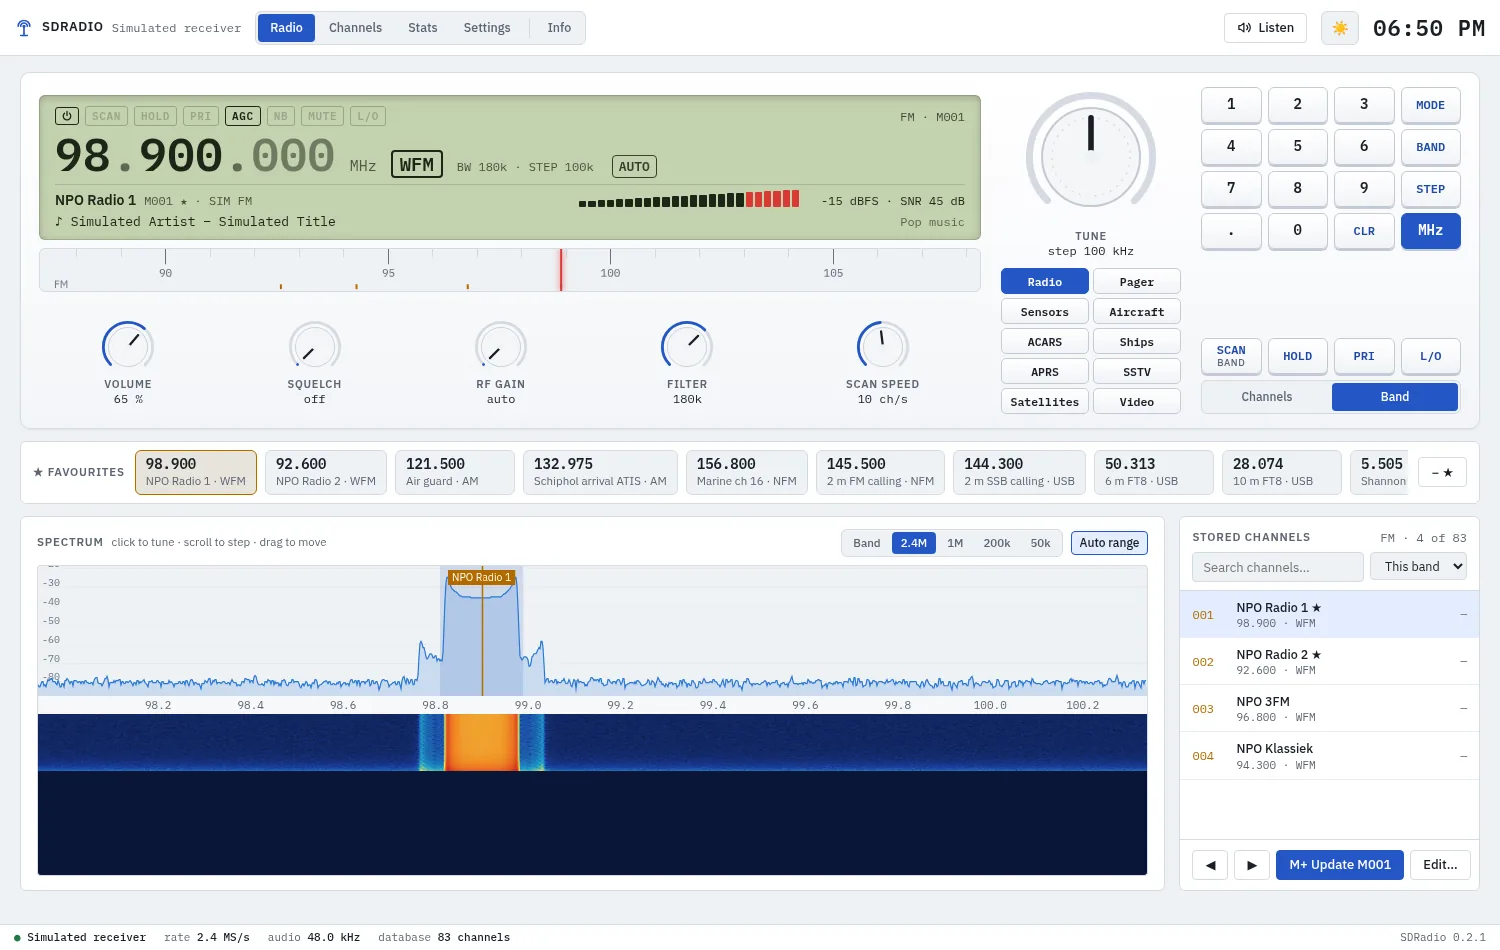
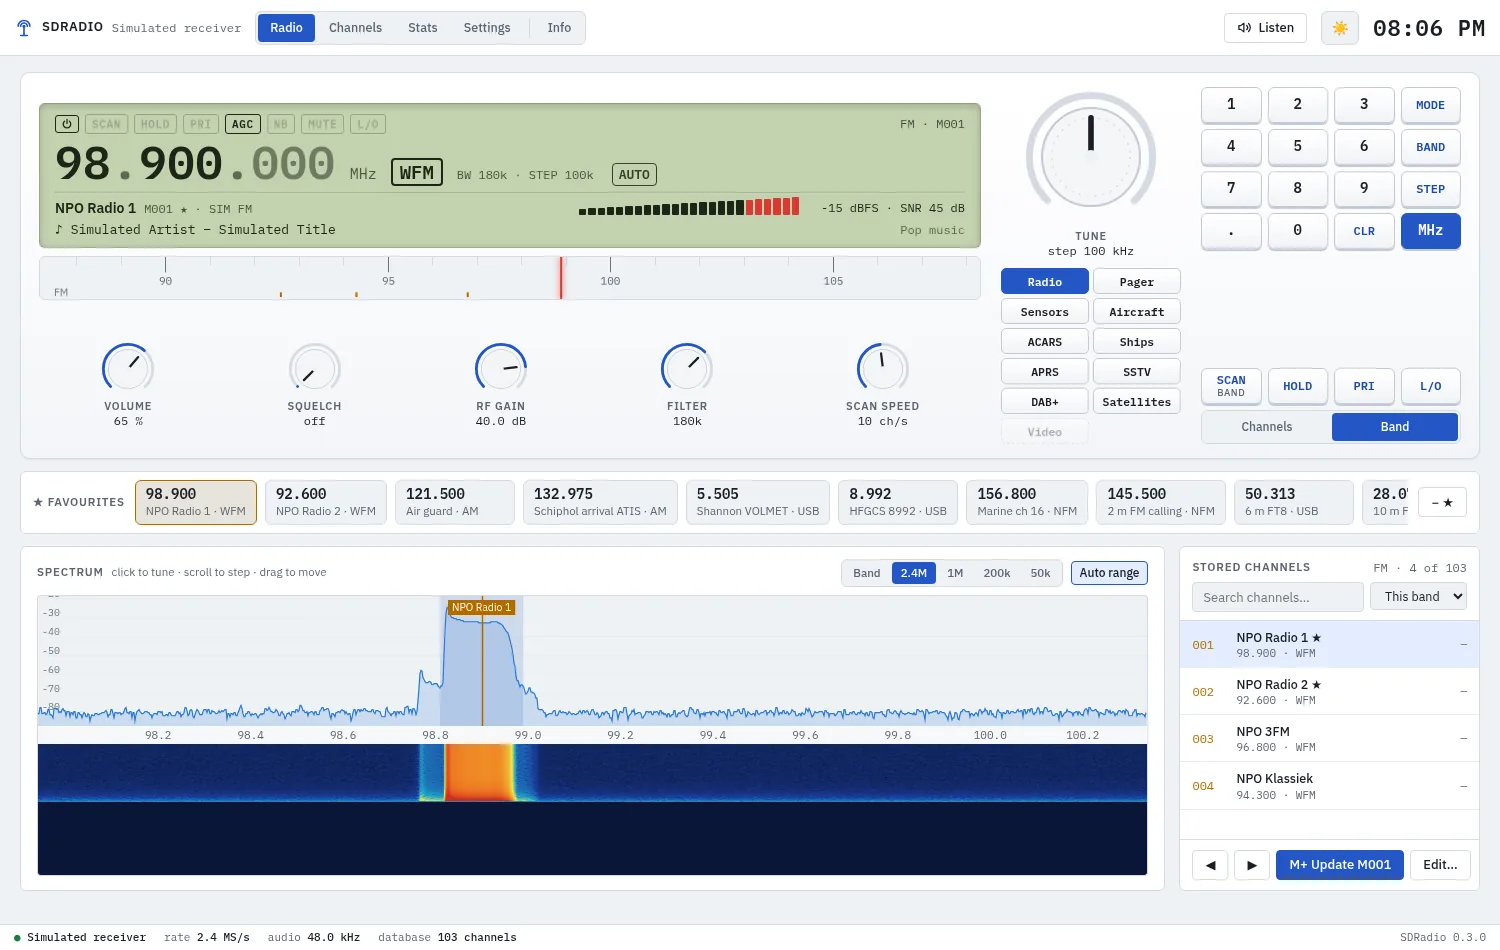
SDRadio 0.4.0: DAB+ mode (welle-cli), channels with a mode, the channel list in every mode; the sensor HA tick fixed

diff --git a/app-sdradio/src/web/radio.js b/app-sdradio/src/web/radio.js
@@ -505,7 +505,8 @@ function renderChannelList(force) {
     if (!force && key === radio.listKey) return;
     radio.listKey = key;
     let rows = app.channels;
-    if (filter === 'band') rows = rows.filter(c => c.band === s.band);
+    // This band; outside every band (a DAB block, 1090 MHz) all of them
+    if (filter === 'band' && s.band) rows = rows.filter(c => c.band === s.band);
     else if (filter === 'fav') rows = rows.filter(c => c.favourite);
     if (search) {
         rows = rows.filter(c => (c.name || '').toLowerCase().includes(search) || fmtMHz(c.frequency).includes(search)
@@ -516,7 +517,7 @@ function renderChannelList(force) {
     el.innerHTML = rows.length ? rows.map(c => `
         <button type="button" class="ch-item${c.id === current ? ' on' : ''}${c.scan ? '' : ' locked'}" data-id="${c.id}">
             <span class="num">${chNum(c.number)}</span>
-            <span class="body"><b>${escapeHtml(c.name || 'Unnamed')}${c.favourite ? ' ★' : ''}</b><small>${fmtMHz(c.frequency)} · ${modeLabel(c.mode)}</small></span>
+            <span class="body"><b>${escapeHtml(c.name || 'Unnamed')}${c.favourite ? ' ★' : ''}</b><small>${fmtMHz(c.frequency)} · ${modeLabel(c.mode)}${channelMode(c) ? ` · <span class="ch-mode">${escapeHtml(modeName(channelMode(c)))}</span>` : ''}</small></span>
             <span class="seen" title="last heard">${c.last_heard ? fmtAgo(c.last_heard) : '—'}</span>
         </button>`).join('')
         : `<div class="empty-state">${app.channels.length ? 'No channel matches' : 'No channels stored yet. Tune to something and press Store current, or import a CSV on the Channels page.'}</div>`;
@@ -546,7 +547,8 @@ function openStore(preset) {
             <div class="form-field"><label for="st-number">Number</label><input id="st-number" class="input mono" type="number" min="0" max="99999" value="${c.number ?? ''}"></div>
             <div class="form-field"><label for="st-band">Band</label><select id="st-band" class="input">${bandOptions(c.band)}</select></div>
             <div class="form-field full"><label for="st-name">Name</label><input id="st-name" class="input" maxlength="80" value="${escapeHtml(c.name)}" placeholder="What is on this frequency"></div>
-            <div class="form-field full"><label for="st-tags">Tags</label><input id="st-tags" class="input" value="${escapeHtml(c.tags)}" placeholder="amateur, repeater"></div>
+            <div class="form-field full"><label for="st-mode">Mode</label><select id="st-mode" class="input" title="Picking this channel switches the radio to this mode">${modeOptions(existing ? channelMode(c) : (s.decoder && s.decoder.key))}</select></div>
+            <div class="form-field full"><label for="st-tags">Tags</label><input id="st-tags" class="input" value="${escapeHtml(tagsWithMode(c.tags, null))}" placeholder="amateur, repeater"></div>
         </div>
         <div class="checks">
             <label><input type="checkbox" id="st-fav"${c.favourite ? ' checked' : ''}> Favourite</label>
@@ -559,7 +561,7 @@ function openStore(preset) {
                 number: document.getElementById('st-number').value,
                 name: document.getElementById('st-name').value,
                 band: document.getElementById('st-band').value,
-                tags: document.getElementById('st-tags').value,
+                tags: tagsWithMode(document.getElementById('st-tags').value, document.getElementById('st-mode').value),
                 favourite: document.getElementById('st-fav').checked,
                 scan: document.getElementById('st-scan').checked,
                 frequency: s.frequency, mode: s.mode, bandwidth: s.bandwidth, step: s.step, squelch: s.squelch,

diff --git a/app-sdradio/src/web/app.css b/app-sdradio/src/web/app.css
@@ -503,7 +503,11 @@ button.ind.on:hover { opacity: 1; }
 .freq-axis span.tuned { color: var(--accent-color); font-weight: 600; }
 
 /* A mode replaces the favourites and the stored channels with its own view */
-#tab-radio:not([data-mode="radio"]) .favbar, #tab-radio:not([data-mode="radio"]) .chlist { display: none; }
+/* In a mode the favourites and the stored channels stay: a channel (with its mode) is a click away.
+   The spectrum gives up some of its width to the mode's panel */
+#tab-radio:not([data-mode="radio"]) .spectrum-panel { flex: 1 1 380px; }
+#tab-radio:not([data-mode="radio"]) .chlist { flex: 0 1 280px; }
+.ch-mode { color: var(--primary-color); font-weight: 600; }
 #tab-radio[data-mode="radio"] .mode-panel { display: none; }
 .mode-panel { flex: 1.4 1 520px; min-width: 0; display: flex; flex-direction: column; overflow: hidden; min-height: 260px; }
 .mode-head { display: flex; flex-wrap: wrap; align-items: center; gap: 8px; padding: 12px 12px 8px; border-bottom: 1px solid var(--divider-color); }
@@ -528,11 +532,13 @@ table.sensors td:last-child, table.sensors th:last-child { text-align: center; }
 
 /* The map of the modes with positions (aircraft): the map above, the list below */
 /* A mode with a map takes more of the width than the spectrum */
-#tab-radio:is([data-mode="aircraft"], [data-mode="ships"], [data-mode="aprs"], [data-mode="satellites"]) .spectrum-panel { flex: 1 1 420px; }
-#tab-radio:is([data-mode="aircraft"], [data-mode="ships"], [data-mode="aprs"], [data-mode="satellites"]) .mode-panel { flex: 1.7 1 620px; }
-.dab-view { padding: 0 0 8px; }
+#tab-radio:is([data-mode="aircraft"], [data-mode="ships"], [data-mode="aprs"], [data-mode="satellites"]) .spectrum-panel { flex: 1 1 340px; }
+#tab-radio:is([data-mode="aircraft"], [data-mode="ships"], [data-mode="aprs"], [data-mode="satellites"]) .mode-panel { flex: 1.8 1 560px; }
+/* The player stays at the top; the station list scrolls under it */
+.dab-view { display: flex; flex-direction: column; height: 100%; }
+#dab-list { flex: 1 1 0; min-height: 0; overflow: auto; padding-bottom: 8px; }
 .dab-head { padding: 10px 12px 6px; }
-.dab-now { display: flex; align-items: center; gap: 12px; padding: 10px 12px; border-bottom: 1px solid var(--divider-color); background: var(--hover-bg); }
+.dab-now { flex: 0 0 auto; display: flex; align-items: center; gap: 12px; padding: 10px 12px; border-bottom: 1px solid var(--divider-color); background: var(--hover-bg); }
 .dab-now img { width: 96px; height: 72px; object-fit: cover; border-radius: 4px; border: 1px solid var(--divider-color); }
 .dab-now-text { flex: 1; min-width: 0; display: flex; flex-direction: column; gap: 4px; font-size: 13px; }
 .dab-now audio { width: 100%; max-width: 420px; height: 32px; }

diff --git a/app-sdradio/src/web/channels.js b/app-sdradio/src/web/channels.js
@@ -124,7 +124,8 @@ function renderEditor() {
             <div class="form-field"><label for="ed-sq">Squelch (dB)</label><input id="ed-sq" class="input mono" value="${c.squelch ?? ''}" placeholder="off"></div>
             <div class="form-field"><label for="ed-gain">RF gain (dB)</label><input id="ed-gain" class="input mono" value="${c.gain ?? ''}" placeholder="as it is"></div>
             <div class="form-field"><label for="ed-band">Band</label><select id="ed-band" class="input">${bandOptions(c.band)}</select></div>
-            <div class="form-field full"><label for="ed-tags">Tags</label><input id="ed-tags" class="input" value="${escapeHtml(c.tags || '')}"></div>
+            <div class="form-field full"><label for="ed-decoder">Mode</label><select id="ed-decoder" class="input" title="Picking this channel switches the radio to this mode">${modeOptions(channelMode(c))}</select></div>
+            <div class="form-field full"><label for="ed-tags">Tags</label><input id="ed-tags" class="input" value="${escapeHtml(tagsWithMode(c.tags, null))}"></div>
             <div class="form-field full"><label for="ed-notes">Notes</label><textarea id="ed-notes" class="input">${escapeHtml(c.notes || '')}</textarea></div>
         </div>
         <div class="checks">
@@ -157,7 +158,7 @@ function readEditor() {
         mode: v('ed-mode'), bandwidth: v('ed-bw') ? Number(v('ed-bw')) : null, step: v('ed-step') || null,
         squelch: v('ed-sq').trim() === '' || v('ed-sq').trim() === 'off' ? null : v('ed-sq').replace(',', '.'),
         gain: v('ed-gain').trim() === '' ? null : v('ed-gain').replace(',', '.'),
-        band: v('ed-band'), tags: v('ed-tags'), notes: v('ed-notes'),
+        band: v('ed-band'), tags: tagsWithMode(v('ed-tags'), v('ed-decoder')), notes: v('ed-notes'),
         favourite: document.getElementById('ed-fav').checked, scan: document.getElementById('ed-scan').checked,
         priority: document.getElementById('ed-pri').checked,
     };

diff --git a/app-sdradio/src/web/core.js b/app-sdradio/src/web/core.js
@@ -90,6 +90,25 @@ function fmtBytes(bytes) {
 const modeLabel = m => (app.modes[m] && app.modes[m].label) || String(m || '').toUpperCase();
 const chNum = n => String(n).padStart(3, '0');
 
+// A stored channel's mode (Pager, DAB+ …) is its tag mode:<mode>; picking the channel switches to it
+function channelMode(c) {
+    const tag = String((c && c.tags) || '').split(',').map(t => t.trim().toLowerCase()).find(t => t.startsWith('mode:'));
+    return tag ? tag.slice(5) : null;
+}
+function tagsWithMode(tags, mode) {
+    const kept = String(tags || '').split(',').map(t => t.trim()).filter(t => t && !t.toLowerCase().startsWith('mode:'));
+    if (mode && mode !== 'radio') kept.push(`mode:${mode}`);
+    return kept.join(', ');
+}
+function modeName(key) {
+    const m = ((app.state && app.state.modes) || []).find(x => x.key === key);
+    return m ? m.name : key;
+}
+function modeOptions(selected) {
+    const modes = [{key: 'radio', name: 'Radio (no mode)'}, ...((app.state && app.state.modes) || [])];
+    return modes.map(m => `<option value="${m.key}"${(selected || 'radio') === m.key ? ' selected' : ''}>${escapeHtml(m.name)}${m.why_not ? ` (${escapeHtml(m.why_not)})` : ''}</option>`).join('');
+}
+
 // Safe in text and in attributes (quotes too: a value may go in an attribute or an inline handler)
 function escapeHtml(text) {
     return (text === null || text === undefined ? '' : String(text))

diff --git a/app-sdradio/src/radio.py b/app-sdradio/src/radio.py
@@ -62,6 +62,15 @@ class Signal:
     channel: dict | None = None
 
 
+def channel_mode(channel: dict) -> str | None:
+    """The mode a stored channel belongs to: its tag mode:<mode> (mode:dab, mode:pager …), if any."""
+    for tag in str(channel.get("tags") or "").split(","):
+        tag = tag.strip().lower()
+        if tag.startswith("mode:") and tag[5:] in registry():
+            return tag[5:]
+    return None
+
+
 @dataclass
 class ScanState:
     kind: str = ""  # channels or band
@@ -290,30 +299,42 @@ class Radio:
         if self.scan.kind == "channels":
             self._rebuild_scan_targets()
         # The mode's settings changed: start its decoder again with them
-        if self.decoder and self.settings.get(f"mode_{self.decoder_key}") != self.decoder.settings:
-            old = self.decoder.frequency
+        if self.decoder and self.settings.get(f"mode_{self.decoder_key}") != self.decoder.saved_settings:
+            old, channel = self.decoder.frequency, self.decoder.channel_frequency
             self.decoder.stop()
             self.decoder = None
-            self._start_decoder(self.decoder_key, tune=self.settings[f"mode_{self.decoder_key}"]["frequency"] != old)
+            new = channel or self.settings[f"mode_{self.decoder_key}"]["frequency"]
+            self._start_decoder(self.decoder_key, tune=new != old, frequency=channel)
 
-    def _cmd_decoder(self, key) -> None:
-        """Switch mode: the radio, or a decoder mode that tunes to its own frequency."""
+    def _cmd_decoder(self, key, frequency=None) -> None:
+        """Switch mode: the radio, or a decoder mode that tunes to its own frequency (or to the
+        frequency of the stored channel it was picked with)."""
         if key != "radio" and key not in registry():
             raise ValueError(f"Unknown mode {key}")
         if self.decoder:
             self.decoder.stop()
             self.decoder = None
-        # Back to the usual rate after a mode that needed another
-        if self.device and self.rate != float(self.config.receiver.sample_rate):
+        # The rate the next mode needs: back to the usual after a mode that needed another
+        wanted = (registry()[key].sample_rate if key != "radio" else None) or float(self.config.receiver.sample_rate)
+        if self.device and self.rate != wanted and (key == "radio" or not registry()[key].sample_rate):
             self._set_rate(float(self.config.receiver.sample_rate))
         self.decoder_key = key
         if key != "radio":
             self._stop_scan()
             self.priority = False
-            self._start_decoder(key, tune=True)
+            self._start_decoder(key, tune=True, frequency=frequency)
         self._save_soon()
 
-    def _start_decoder(self, key: str, tune: bool) -> None:
+    def _go_channel(self, channel: dict) -> None:
+        """A stored channel picked (the list, ◀ ▶, a favourite): its mode too. A channel tagged
+        mode:<mode> switches to that mode on its frequency; any other switches back to the radio."""
+        wanted = channel_mode(channel) or "radio"
+        if wanted != self.decoder_key or (self.decoder is not None and self.decoder.frequency != channel["frequency"]):
+            self._cmd_decoder(wanted, frequency=channel["frequency"] if wanted != "radio" else None)
+        self._stop_scan()
+        self._tune_channel(channel)
+
+    def _start_decoder(self, key: str, tune: bool, frequency: int | None = None) -> None:
         cls = registry()[key]
         if not cls.usable(self.config.receiver.type, self.device.frequency_range if self.device else None):
             self.emit("notice", {"message": f"The {self.config.receiver.name} can't receive {cls.name}"})
@@ -323,12 +344,19 @@ class Radio:
         if cls.sample_rate and self.device and self.rate != cls.sample_rate and not self._set_rate(cls.sample_rate):
             self.decoder_key = "radio"
             return
+        saved = self.settings.get(f"mode_{key}") or {}
+        settings = dict(saved)
+        if frequency:
+            settings["frequency"] = int(frequency)  # the stored channel's, for now
         decoder = cls(
-            self.settings.get(f"mode_{key}") or {},
+            settings,
             lambda item: self._publish(key, item),
             lambda data: self.emit("live", {"mode": key, **data}),
         )
         decoder.location = self.location
+        # What it was started with: its saved settings, and a stored channel's frequency if any
+        decoder.saved_settings = saved
+        decoder.channel_frequency = int(frequency) if frequency else None
         decoder.folder = self.files_dir / key if self.files_dir else None
         # A mode that follows something (a satellite's Doppler shift) tunes the radio itself
         decoder.retune = lambda frequency, mode, bandwidth: self.command(
@@ -468,8 +496,7 @@ class Radio:
         channel = self.db.channel(int(id))
         if channel is None:
             return
-        self._stop_scan()
-        self._tune_channel(channel)
+        self._go_channel(channel)
 
     def _cmd_step_tune(self, steps) -> None:
         """The tune dial: move a number of steps. A step that fits a whole MHz (12.5 kHz, 25 kHz)
@@ -607,8 +634,7 @@ class Radio:
                 target = min(ahead, key=lambda c: abs(c["frequency"] - self.frequency))
             else:
                 target = channels[0] if direction > 0 else channels[-1]
-        self._stop_scan()
-        self._tune_channel(target)
+        self._go_channel(target)
 
     # ================================================================ tuning
 

diff --git a/app-sdradio/tests/test_modes.py b/app-sdradio/tests/test_modes.py
@@ -264,3 +264,25 @@ def test_modes_without_sound_measure_their_channel(radio, monkeypatch):
     assert not any(k == "audio" for k, _ in radio.events[-20:])
     quiet = radio.level
     assert quiet < -50  # noise in a 15 kHz channel, not the whole 2.4 MHz
+
+
+def test_a_channel_brings_its_mode(radio):
+    """A stored channel tagged mode:<mode> switches to that mode on its frequency; another goes back to the radio."""
+    db = radio.db
+    weather = db.save_channel({"name": "Weather", "frequency": 434_000_000, "mode": "am", "tags": "ism,mode:fake"})
+    calling = db.save_channel({"name": "Calling", "frequency": 145_500_000, "mode": "nfm"})
+    radio.command("channel", id=weather["id"])
+    run(radio, 3)
+    assert radio.decoder_key == "fake" and radio.frequency == 434_000_000 and radio.decoder.frequency == 434_000_000
+    # A settings change restarts the mode, still on the channel's frequency
+    radio.db.update_settings({"decoded_keep_days": 7})
+    radio.reload()
+    run(radio, 2)
+    assert radio.decoder.frequency == 434_000_000
+    radio.command("channel", id=calling["id"])
+    run(radio, 2)
+    assert radio.decoder is None and radio.decoder_key == "radio" and radio.frequency == 145_500_000
+    # ◀ ▶ too
+    radio.command("memory", direction=-1)
+    run(radio, 3)
+    assert radio.decoder_key == "fake" and radio.frequency == 434_000_000

diff --git a/app-sdradio/README.md b/app-sdradio/README.md
@@ -19,7 +19,7 @@ spectrum and waterfall to click on, and your stored channels beside it. Listen i
 scan your channels or a band, and keep every channel and every transmission heard in a
 database, with CSV import and export, statistics and nightly backups. The mode buttons under the
 tune dial turn it into a decoder: pagers, weather sensors, aircraft and ships on a map, ACARS,
-APRS, SSTV pictures, satellite passes, and analog FPV video with a HackRF.
+APRS, SSTV pictures, DAB+ digital radio, satellite passes, and analog FPV video with a HackRF.
 
 ![The radio: display, band scale, knobs, tune dial with the mode buttons and keypad, favourites, the spectrum and waterfall, and the stored channels (light theme)](https://raw.githubusercontent.com/cyberjunky/home-assistant-apps/main/app-sdradio/screenshots/radio-light.webp)
 
@@ -58,6 +58,9 @@ APRS, SSTV pictures, satellite passes, and analog FPV video with a HackRF.
 **SSTV** — pictures sent as sound, from the ISS and radio amateurs
 ![SSTV mode](https://raw.githubusercontent.com/cyberjunky/home-assistant-apps/main/app-sdradio/screenshots/mode-sstv-light.webp)
 
+**DAB+** — the stations of a DAB+ block with what's playing; click one to listen
+![DAB+ mode](https://raw.githubusercontent.com/cyberjunky/home-assistant-apps/main/app-sdradio/screenshots/mode-dab-light.webp)
+
 **Satellites** — the passes over your home, followed with the Doppler shift taken out
 ![Satellites mode](https://raw.githubusercontent.com/cyberjunky/home-assistant-apps/main/app-sdradio/screenshots/mode-satellites-light.webp)
 
@@ -74,7 +77,7 @@ APRS, SSTV pictures, satellite passes, and analog FPV video with a HackRF.
 - 📻 **Receiver front panel** — Frequency display (scroll a digit to change it), mode, filter and step, indicators, channel name and a signal meter in dBFS with SNR; a band scale like an old radio dial; knobs for volume, squelch, RF gain, filter and scan speed; a tune dial and a keypad
 - 🌊 **Spectrum and waterfall** — Live, with your stored channels labelled; click to tune, drag to move, scroll to step; zoom from the whole band (swept) to 50 kHz
 - 🎧 **Listen in the browser** — AM, NFM, WFM, USB, LSB, CW and DSB, demodulated in the app; AGC and noise blanker
-- 📟 **Modes** — The radio set up for pagers (POCSAG and FLEX, with multimon-ng), sensors on 433/868 MHz (weather stations, thermometers, meters, with rtl_433) aircraft (ADS-B with dump1090), ships (AIS) and APRS stations on a map, ACARS messages, SSTV pictures, satellite passes followed with Doppler correction (ISS, SO-50, Meteor), and analog FPV video with the HackRF, each with its own view and Home Assistant events or sensors
+- 📟 **Modes** — The radio set up for pagers (POCSAG and FLEX, with multimon-ng), sensors on 433/868 MHz (weather stations, thermometers, meters, with rtl_433), aircraft (ADS-B with dump1090), ships (AIS) and APRS stations on a map, ACARS messages, SSTV pictures, DAB+ digital radio (welle-cli), satellite passes followed with Doppler correction (ISS, SO-50, Meteor), and analog FPV video with the HackRF, each with its own view and Home Assistant events or sensors
 - 📝 **RDS** — On FM broadcast: the station's name, its radio text, and the artist and title when the station sends them
 - 🔍 **Scanning** — The stored channels, a band or a range; HOLD, lock-out and priority channels; every transmission logged, and unknown signals listed as new finds
 - 🗂 **Channels** — Name, frequency, mode, filter, step, squelch, gain, band, tags, notes, favourite, scan and priority; favourites one click away on the radio

diff --git a/app-sdradio/DOCS.md b/app-sdradio/DOCS.md
@@ -105,14 +105,20 @@ after a few hits (the number is on the Settings page).
 
 The **mode buttons** under the tune dial set the radio up for one kind of signal and decode
 what it hears. The radio tunes to the mode's frequency (set on the Settings page, under Modes);
-you can still tune elsewhere and listen. In place of the favourites and the stored channels the
-page shows what the mode decodes. The modes only show up when your receiver can use them.
+you can still tune elsewhere and listen. Beside the spectrum the page shows what the mode decodes,
+and the favourites and the stored channels stay, so another channel (or mode) is a click away.
+
+**A channel with a mode**: a stored channel can belong to a mode (the *Mode* field when storing or
+editing it; in a CSV the tag `mode:<mode>`, e.g. `mode:dab`, `mode:pager`). Picking it (in the
+list, with ◀ ▶ or as a favourite) switches the radio to that mode on the channel's frequency; a
+channel without one switches back to the radio. A channel stored while in a mode belongs to it.
 In a mode the display shows how its signal is modulated (FSK for pagers, OOK/FSK for sensors,
 PPM for ADS-B, MSK on AM for ACARS, GMSK for AIS, AFSK for APRS) and what decodes it; the
 demodulation beside it is only how it sounds with Listen. The modes whose decoder reads the
 receiver's samples and that carry no voice (Sensors, Aircraft, ACARS, Ships, Video) have no sound:
 the radio doesn't demodulate audio for them, and the meter shows the level in the channel.
-Pager, APRS, SSTV and Satellites decode from the audio and can be listened to. What would take the mode off its
+Pager, APRS, SSTV and Satellites decode from the audio and can be listened to; DAB+ plays its
+stations in the page itself. What would take the mode off its
 frequency or change how it listens is off meanwhile: SCAN, HOLD, PRI, L/O, MODE, BAND, AUTO,
 the filter and the scan speed. Mode → Radio brings them back.
 
@@ -172,6 +178,11 @@ the filter and the scan speed. Mode → Radio brings them back.
   passes that are over, with their pictures, packets and recordings. The NOAA weather satellites
   were switched off in 2025.
 
+- **DAB+**: digital radio: the stations of a DAB+ block (an ensemble), decoded by welle-cli: their
+  names, programme type, bitrate and what is playing now (DLS); click a station to hear it in the
+  page, with its slides (album art, logos) when it sends them. In this mode the receiver runs at
+  2.048 MS/s, DAB's own rate. Pick the block under Modes: in the Netherlands 12C is the NPO,
+  11C the national commercial stations, and regional ensembles are on 8A, 8B, 5C and others.
 - **Video** (HackRF only): analog video as FPV drones and wireless cameras send it, in black and
   white, a few frames a second. Analog video is FM some 16 MHz wide, so in this mode the HackRF
   runs at 20 MS/s (back to 2.4 when you leave it); the RTL-SDR takes in 2.4 MHz, too little. PAL

diff --git a/app-sdradio/CHANGELOG.md b/app-sdradio/CHANGELOG.md
@@ -1,5 +1,15 @@
 # Changelog
 
+## 0.4.0
+
+**After updating:** nothing to do.
+
+- **DAB+** (new mode): digital radio. The stations of a DAB+ block, decoded by welle-cli (now built into the app), with their programme type, bitrate and what is playing now; click a station to hear it in the page, with its slides. The receiver runs at 2.048 MS/s in this mode. Pick the block under Settings → Modes (12C NPO, 11C commercial in the Netherlands).
+- **A channel with a mode:** a stored channel can belong to a mode (the new *Mode* field when storing or editing, or the tag `mode:dab`, `mode:pager` … in a CSV). Picking it switches the radio to that mode on the channel's frequency; a channel without one switches back to the radio.
+- **The stored channels and the favourites stay** in every mode, beside the mode's view, so another channel or mode is a click away.
+- **Fixed:** the Home Assistant tick on a sensor was not saved (it looked ticked until the next reading); clicking an APRS station did nothing; the waterfall and display colours could not be changed. A value with quotes broke the page's handlers.
+- **No sound** in the modes whose decoder reads the samples and that carry no voice (Sensors, Aircraft, ACARS, Ships, Video): no audio demodulated for nothing, and the meter shows the channel's level.
+
 ## 0.3.0
 
 **After updating:** nothing to do. A range scan you had set up is gone: SCAN does the band you are in, or your stored channels.
